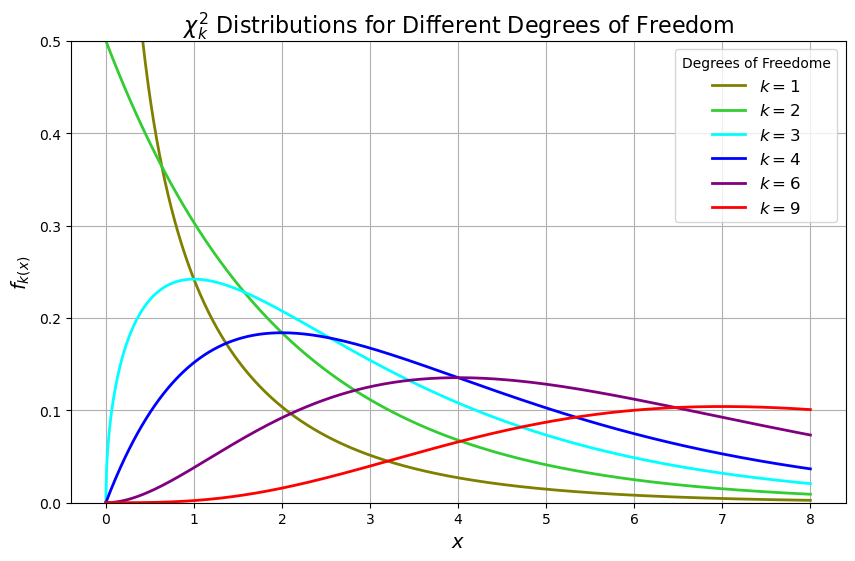
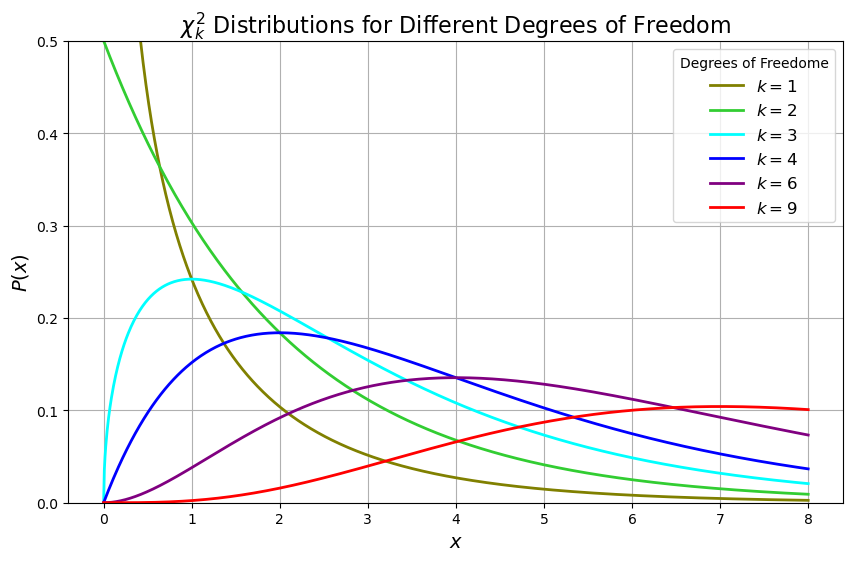
deploy: 804114409dc72c78f1c8eaa79cc0dabfc8eecb40

diff --git a/cn/2024/09/29/chi2/index.html b/cn/2024/09/29/chi2/index.html
@@ -307,9 +307,10 @@ threshold <span style=color:#666>=</span> (<span style=color:#666>250</span><spa
 prob <span style=color:#666>=</span> <span style=color:#666>1</span> <span style=color:#666>-</span> chi2<span style=color:#666>.</span>cdf(threshold, df)
 x <span style=color:#666>=</span> np<span style=color:#666>.</span>linspace(<span style=color:#666>0</span>, <span style=color:#666>300</span>, <span style=color:#666>1000</span>)
 y <span style=color:#666>=</span> chi2<span style=color:#666>.</span>pdf(x, df)
-plt<span style=color:#666>.</span>figure(figsize <span style=color:#666>=</span> (<span style=color:#666>6</span>, <span style=color:#666>4</span>))
+plt<span style=color:#666>.</span>figure(figsize <span style=color:#666>=</span> (<span style=color:#666>10</span>, <span style=color:#666>6</span>))
 plt<span style=color:#666>.</span>plot(x, y, label<span style=color:#666>=</span><span style=color:#ba2121>f</span><span style=color:#ba2121>&#39;Chi-Square PDF (df = </span><span style=color:#b68;font-weight:700>{</span>df<span style=color:#b68;font-weight:700>}</span><span style=color:#ba2121>)&#39;</span>, color <span style=color:#666>=</span> <span style=color:#ba2121>&#34;steelblue&#34;</span>)
 plt<span style=color:#666>.</span>fill_between(x, y, 
+                <span style=color:#408080;font-style:italic>#  where=np.logical_or(x &gt;= threshold, x &lt;= 80), </span>
                  where<span style=color:#666>=</span>(x <span style=color:#666>&gt;=</span> threshold), 
                  color<span style=color:#666>=</span><span style=color:#ba2121>&#39;orange&#39;</span>, 
                  alpha <span style=color:#666>=</span> <span style=color:#666>0.5</span>, 
@@ -319,7 +320,7 @@ plt<span style=color:#666>.</span>xlabel(<span style=color:#ba2121>&#39;`$x$`&#3
 plt<span style=color:#666>.</span>ylabel(<span style=color:#ba2121>&#39;Probability Density&#39;</span>)
 plt<span style=color:#666>.</span>axvline(threshold, color<span style=color:#666>=</span><span style=color:#ba2121>&#34;red&#34;</span>, 
             linestyle<span style=color:#666>=</span><span style=color:#ba2121>&#39;--&#39;</span>, 
-            label<span style=color:#666>=</span><span style=color:#ba2121>f</span><span style=color:#ba2121>&#39;Threshold = </span><span style=color:#b68;font-weight:700>{</span>threshold<span style=color:#b68;font-weight:700>:</span><span style=color:#ba2121>.2f</span><span style=color:#b68;font-weight:700>}</span><span style=color:#ba2121>)&#39;</span>)
+            label<span style=color:#666>=</span><span style=color:#ba2121>f</span><span style=color:#ba2121>&#39;Threshold = </span><span style=color:#b68;font-weight:700>{</span>threshold<span style=color:#b68;font-weight:700>:</span><span style=color:#ba2121>.2f</span><span style=color:#b68;font-weight:700>}</span><span style=color:#ba2121>&#39;</span>)
 plt<span style=color:#666>.</span>legend()
 plt<span style=color:#666>.</span>grid(<span style=color:green;font-weight:700>True</span>)
 plt<span style=color:#666>.</span>show()
@@ -346,7 +347,7 @@ colors <span style=color:#666>=</span> [<span style=color:#ba2121>&#39;olive&#39
          label<span style=color:#666>=</span><span style=color:#ba2121>rf</span><span style=color:#ba2121>&#39;`$k=</span><span style=color:#b68;font-weight:700>{</span>df<span style=color:#b68;font-weight:700>}</span><span style=color:#ba2121>$`&#39;</span>)  <span style=color:#408080;font-style:italic># Plot PDF line</span>
     
 plt<span style=color:#666>.</span>xlabel(<span style=color:#ba2121>r</span><span style=color:#ba2121>&#39;`$x$`&#39;</span>, fontsize <span style=color:#666>=</span> <span style=color:#666>14</span>)
-plt<span style=color:#666>.</span>ylabel(<span style=color:#ba2121>r</span><span style=color:#ba2121>&#39;`$f_{k(x)}$`&#39;</span>, fontsize <span style=color:#666>=</span> <span style=color:#666>14</span>)
+plt<span style=color:#666>.</span>ylabel(<span style=color:#ba2121>r</span><span style=color:#ba2121>&#39;`$P(x)$`&#39;</span>, fontsize <span style=color:#666>=</span> <span style=color:#666>14</span>)
 plt<span style=color:#666>.</span>title(<span style=color:#ba2121>r</span><span style=color:#ba2121>&#39;`$\chi^2_k$` Distributions for Different Degrees of Freedom&#39;</span>, fontsize <span style=color:#666>=</span> <span style=color:#666>16</span>)
 plt<span style=color:#666>.</span>legend(title <span style=color:#666>=</span> <span style=color:#ba2121>&#39;Degrees of Freedome&#39;</span>, fontsize <span style=color:#666>=</span> <span style=color:#666>12</span>)
 plt<span style=color:#666>.</span>grid(<span style=color:green;font-weight:700>True</span>)
